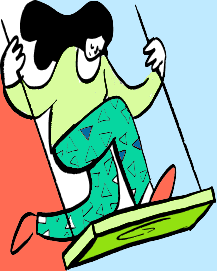
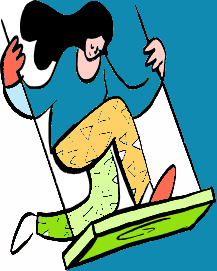
minor styling changes for different device sizes

diff --git a/screens/insuranceScreens/unfallversicherung.js b/screens/insuranceScreens/unfallversicherung.js
@@ -1,6 +1,6 @@
 import React from 'react';
 
-import {Linking, Modal} from 'react-native';
+import {Linking, Modal, Dimensions} from 'react-native';
 import colors from '../../assets/colors';
 import Article from '../../components/articleComponents/article';
 import ArticleHeader from '../../components/articleComponents/articleHeader';
@@ -12,16 +12,23 @@ import Paragraph from '../../components/articleComponents/paragraph';
 import CloseButton from '../../components/buttons/closeButton';
 import ScrollableScreenContainer from '../../components/scrollableScreen';
 
+const windowHeight = Dimensions.get('window').height;
+
 const Unfallversicherung = (props) => {
   return (
     <Modal visible={props.isVisible} animationType={'slide'}>
       <ScrollableScreenContainer>
         <ArticleHeader
-          textStyle={{letterSpacing: 2, fontSize: 32, textAlign: 'center'}}
+          textStyle={{
+            letterSpacing: windowHeight > 600 ? 2 : 1,
+            fontSize: windowHeight > 600 ? 32 : 28,
+            textAlign: 'center'
+          }}
         >
           Berufsunfähigkeits- und Unfallversicherung
         </ArticleHeader>
         <ArticleIllustration
+          imageContainerStyle={{marginTop: 50}}
           image={require('../../assets/illustrations/insuranceIllustrations/CatCup.png')}
         />
         <Article>
@@ -88,7 +95,7 @@ const Unfallversicherung = (props) => {
           <Paragraph style={{fontWeight: 'bold', color: colors.primary}}>
             06151 – 3917 601
           </Paragraph>
-          <Link onPress={() => Linking.openURL('www.tamed.de')}>
+          <Link onPress={() => Linking.openURL('http://www.tamed.de')}>
             www.tamed.de
           </Link>
 
@@ -142,7 +149,7 @@ const Unfallversicherung = (props) => {
           <Paragraph style={{fontWeight: 'bold', color: colors.primary}}>
             04421/407-407
           </Paragraph>
-          <Link onPress={() => Linking.openURL('www.uk-bund.de')}>
+          <Link onPress={() => Linking.openURL('http://www.uk-bund.de')}>
             www.uk-bund.de
           </Link>
           <ArticleSubHeader textStyle={{color: colors.accentDark}}>
@@ -151,7 +158,9 @@ const Unfallversicherung = (props) => {
           <Paragraph style={{fontWeight: 'bold', color: colors.primary}}>
             030/ 76 24 – 0
           </Paragraph>
-          <Link onPress={() => Linking.openURL('www.unfallkasse-berlin.de')}>
+          <Link
+            onPress={() => Linking.openURL('http://www.unfallkasse-berlin.de')}
+          >
             www.unfallkasse-berlin.de
           </Link>
           <Paragraph>sowie in allen Bundesländern, bitte googeln.</Paragraph>

diff --git a/screens/transition.js b/screens/transition.js
@@ -12,6 +12,9 @@ import {HeaderButtons, Item} from 'react-navigation-header-buttons';
 
 import MyHeaderButton from '../components/buttons/headerButton';
 
+const windowHeight = Dimensions.get('window').height;
+const windowWidth = Dimensions.get('window').width;
+
 class Transition extends React.Component {
   static navigationOptions = ({navigation}) => {
     return {
@@ -62,7 +65,7 @@ class Transition extends React.Component {
         ></Menu>
         <ArticleHeader>Die Transition</ArticleHeader>
         <ArticleIllustration
-          imageStyle={{maxHeight: 400}}
+          imageStyle={{maxHeight: windowHeight > 600 ? 400 : 300}}
           image={require('../assets/illustrations/transitionIllustrations/hurry.png')}
         />
         <ArticleSubHeader>Was bedeutet Transition?</ArticleSubHeader>
@@ -97,12 +100,16 @@ class Transition extends React.Component {
           Karriere oder am Ende des Tänzer-Daseins.
         </Paragraph>
         <ArticleHeader
-          textStyle={{fontSize: 28, letterSpacing: 2, textAlign: 'center'}}
+          textStyle={{
+            fontSize: windowHeight > 600 ? 28 : 26,
+            letterSpacing: windowHeight > 600 ? 2 : 1,
+            textAlign: 'center'
+          }}
         >
           Entwicklung einer Vision für ein Leben nach dem Tanz
         </ArticleHeader>
         <ArticleIllustration
-          imageStyle={{maxHeight: 300}}
+          imageStyle={{maxHeight: windowHeight > 600 ? 300 : 240}}
           image={require('../assets/illustrations/transitionIllustrations/relaxation.png')}
         ></ArticleIllustration>
         <ArticleSubHeader>Vision</ArticleSubHeader>
@@ -136,7 +143,7 @@ class Transition extends React.Component {
           glückliches Leben zu führen.
         </Paragraph>
         <ArticleIllustration
-          imageStyle={{maxHeight: 300}}
+          imageStyle={{maxHeight: windowHeight > 600 ? 300 : 240}}
           image={require('../assets/illustrations/transitionIllustrations/meditating.png')}
         ></ArticleIllustration>
         <ArticleSubHeader>Interests</ArticleSubHeader>
@@ -153,8 +160,8 @@ class Transition extends React.Component {
           mit und zu sich selbst.
         </Paragraph>
         <ArticleIllustration
-          imageStyle={{height: 400}}
-          image={require('../assets/illustrations/transitionIllustrations/swinging.png')}
+          image={require('../assets/illustrations/transitionIllustrations/reading-side.png')}
+          imageStyle={{maxHeight: windowHeight > 600 ? 280 : 220}}
         ></ArticleIllustration>
         <ArticleSubHeader>Skills</ArticleSubHeader>
 

diff --git a/screens/germanyScreens/deutschkurse.js b/screens/germanyScreens/deutschkurse.js
@@ -1,6 +1,6 @@
 import React from 'react';
 
-import {Modal} from 'react-native';
+import {Modal, Dimensions} from 'react-native';
 import Article from '../../components/articleComponents/article';
 import ArticleHeader from '../../components/articleComponents/articleHeader';
 import ArticleIllustration from '../../components/articleComponents/articleIllustration';
@@ -9,6 +9,8 @@ import Paragraph from '../../components/articleComponents/paragraph';
 import CloseButton from '../../components/buttons/closeButton';
 import ScrollableScreenContainer from '../../components/scrollableScreen';
 
+const windowHeight = Dimensions.get('window').height;
+
 const Deutschkurse = (props) => {
   return (
     <Modal visible={props.isVisible} animationType={'slide'}>
@@ -16,7 +18,8 @@ const Deutschkurse = (props) => {
         <CloseButton close={props.close} />
         <ArticleHeader>Deutschkurse</ArticleHeader>
         <ArticleIllustration
-          imageStyle={{maxHeight: 350}}
+          imageContainerStyle={{marginTop: 20}}
+          imageStyle={{maxHeight: windowHeight > 600 ? 350 : 300}}
           image={require('../../assets/illustrations/germanyIllustrations/headphones.png')}
         />
         <Article>

diff --git a/screens/umsetzungScreens/bewerbung.js b/screens/umsetzungScreens/bewerbung.js
@@ -1,6 +1,6 @@
 import React from 'react';
 
-import {Modal} from 'react-native';
+import {Modal, Dimensions} from 'react-native';
 import Article from '../../components/articleComponents/article';
 import ArticleHeader from '../../components/articleComponents/articleHeader';
 import ArticleIllustration from '../../components/articleComponents/articleIllustration';
@@ -9,12 +9,18 @@ import Paragraph from '../../components/articleComponents/paragraph';
 import CloseButton from '../../components/buttons/closeButton';
 import ScrollableScreenContainer from '../../components/scrollableScreen';
 
+const windowHeight = Dimensions.get('window').height;
 const Bewerbungsprozess = (props) => {
   return (
     <Modal visible={props.isVisible} animationType={'slide'}>
       <ScrollableScreenContainer>
         <CloseButton close={props.close} />
-        <ArticleHeader textStyle={{fontSize: 32, letterSpacing: 2}}>
+        <ArticleHeader
+          textStyle={{
+            fontSize: windowHeight > 600 ? 32 : 28,
+            letterSpacing: windowHeight > 600 ? 2 : 1
+          }}
+        >
           Bewerbungsprozess
         </ArticleHeader>
         <ArticleIllustration

diff --git a/screens/selfEmploymentScreens/existenzgruendung.js b/screens/selfEmploymentScreens/existenzgruendung.js
@@ -1,6 +1,6 @@
 import React from 'react';
 
-import {Linking, Modal} from 'react-native';
+import {Linking, Modal, Dimensions} from 'react-native';
 import Article from '../../components/articleComponents/article';
 import ArticleHeader from '../../components/articleComponents/articleHeader';
 import ArticleIllustration from '../../components/articleComponents/articleIllustration';
@@ -8,6 +8,8 @@ import Paragraph from '../../components/articleComponents/paragraph';
 import CloseButton from '../../components/buttons/closeButton';
 import ScrollableScreenContainer from '../../components/scrollableScreen';
 import Link from '../../components/articleComponents/link';
+
+const windowHeight = Dimensions.get('window').height;
 
 const Existenzgruendung = (props) => {
   return (
@@ -18,7 +20,7 @@ const Existenzgruendung = (props) => {
           Existenzgründung
         </ArticleHeader>
         <ArticleIllustration
-          imageStyle={{maxHeight: 400}}
+          imageStyle={{maxHeight: windowHeight > 600 ? 400 : 300}}
           image={require('../../assets/illustrations/selfemploymentIllustrations/business.png')}
         />
         <Article>

diff --git a/screens/insuranceScreens/bayrischeVersorgungskammer.js b/screens/insuranceScreens/bayrischeVersorgungskammer.js
@@ -110,7 +110,10 @@ const Bayerische = (props) => {
             Theater versichert ist. In diesem Fall finden ausschließlich die
             allgemeinen Satzungsbestimmungen Anwendung.
           </Paragraph>
-          <ArticleHeader>Möglichkeit der Weiterversicherung</ArticleHeader>
+          <ArticleSubHeader>
+            Möglichkeit der Weiterversicherung
+          </ArticleSubHeader>
+
           <Paragraph>
             Statt der Inanspruchnahme einer Abfindung kann sich ein Tänzer oder
             eine Tänzerin nach Aufgabe des Bühnenberufs alternativ
